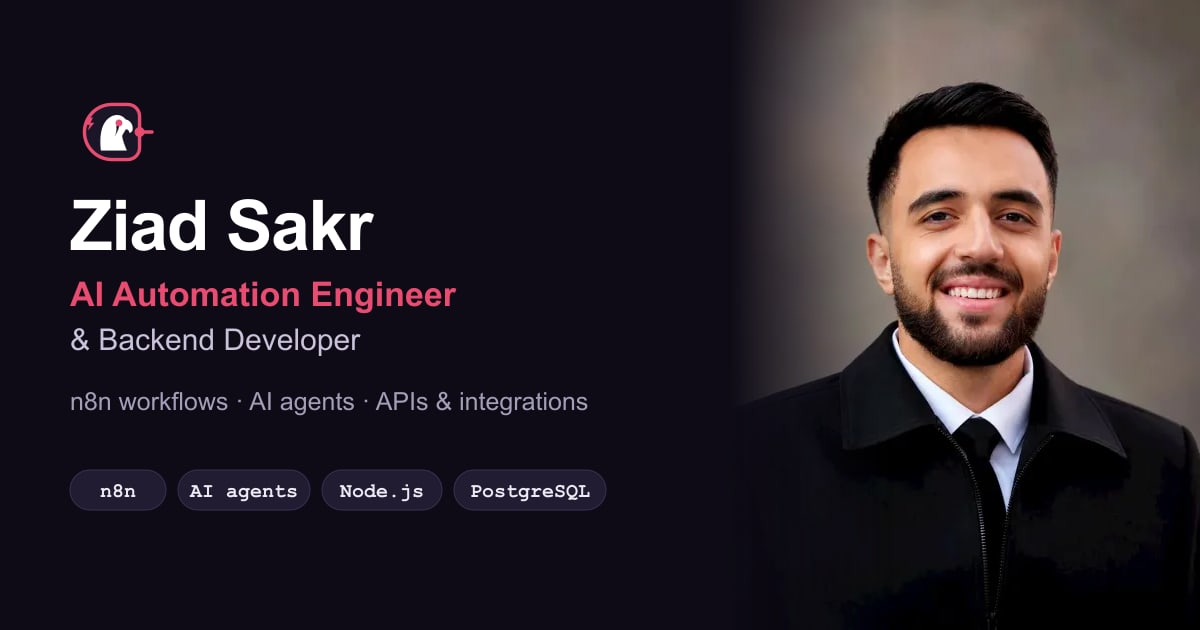
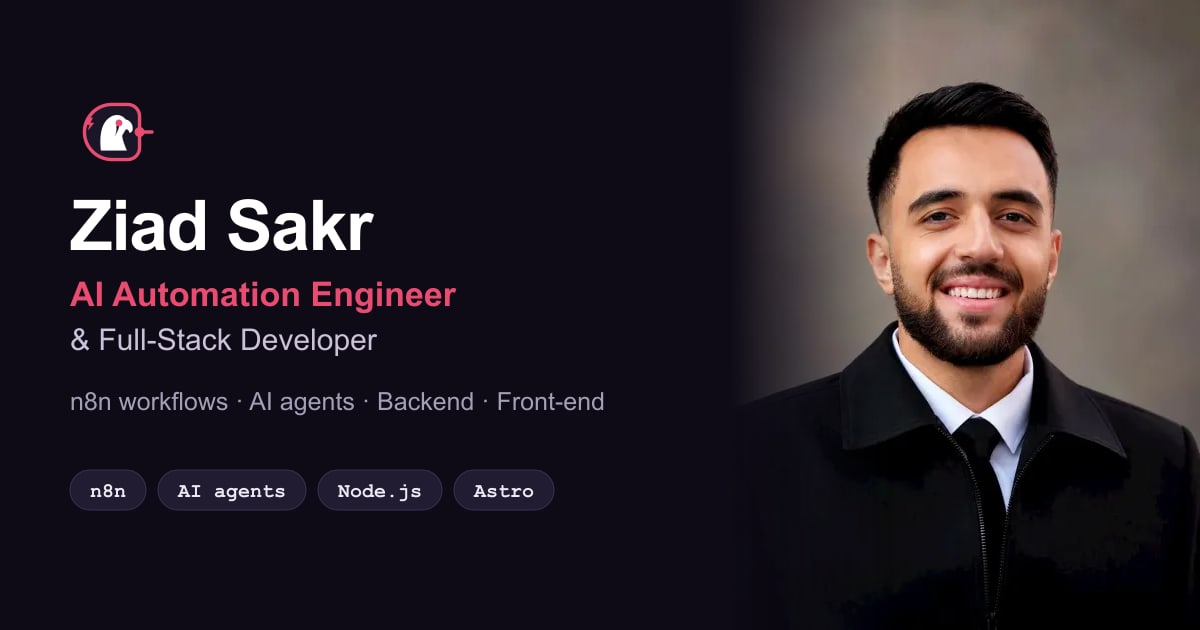
Mobile hero (cover photo + live flow), intro once per visit, Full-Stack
- Phones: cover-photo hero, side-by-side View work / WhatsApp, live mini-workflow synced with desktop cards, compact stats; big portrait hidden
- Intro animation plays once per visit (sessionStorage); skipped on /#section links; /?intro forces it
- Skip button slides up with a soft glow
- Role: AI Automation Engineer & Full-Stack Developer; new Front-end & Web Apps service; OG image regenerated (scripts/make-og.mjs)
- EDIT-GUIDE.md (Arabic how-to) and CLAUDE.md

diff --git a/src/site.ts b/src/site.ts
@@ -1,10 +1,10 @@
 // Edit your personal info here — used across the whole site.
 export const site = {
   name: 'Ziad Sakr',
-  role: 'AI Automation Engineer · Backend Developer',
+  role: 'AI Automation Engineer · Full-Stack Developer',
   tagline: 'I automate the boring parts of your business.',
   description:
-    'I design and ship AI agents, n8n automations and the backend behind them — with validation, deduplication, security and error monitoring built in.',
+    'I design and ship AI agents, n8n automations, the backend behind them and fast, mobile-first front-ends (Astro, JavaScript) — with validation, security and error monitoring built in.',
   email: 'ziadsakr261@gmail.com',
   // Contact form → your inbox via Web3Forms (free, no backend; formsubmit.co was unreachable).
   // Get a free Access Key at https://web3forms.com (enter ziadsakr261@gmail.com) and paste it below.

diff --git a/EDIT-GUIDE.md b/EDIT-GUIDE.md
@@ -1,0 +1,141 @@
+# 📘 دليل تعديل الموقع — Ziad Sakr Portfolio
+
+> الموقع: **https://ziad-sakr-portfolio.pages.dev**
+> الكود: فولدر `ziad-sakr-portfolio` على الديسكتوب + GitHub (خاص): `sheetswork26-hue/ziad-sakr-portfolio`
+
+---
+
+## ⚡ الخلاصة في 3 خطوات (لأي تعديل)
+
+1. عدّل الملف (الجداول تحت بتقولك أنهي ملف).
+2. جرّب على جهازك (اختياري):
+   ```bash
+   npm run dev
+   ```
+   وافتح `http://localhost:4321` — أي تعديل بيظهر فوراً. اقفله بـ `Ctrl + C`.
+3. ارفع على النت:
+   ```bash
+   npm run build
+   npx wrangler pages deploy dist --project-name ziad-sakr-portfolio --branch main
+   ```
+   ⏱ حوالي دقيقة · 💰 مجاني
+
+> 💡 شغّل الأوامر من Terminal **جوه فولدر المشروع** (في VS Code: `Terminal → New Terminal`).
+
+**احفظ نسخة على GitHub بعد كل تعديل (موصى به):**
+```bash
+git add -A
+git commit -m "وصف التعديل"
+git push
+```
+
+---
+
+## 🗂 خريطة الملفات
+
+| الملف / الفولدر | فيه إيه |
+|---|---|
+| `src/site.ts` | **أهم ملف**: اسمك، التايتل، الوصف، الإيميل، الواتساب، اللينكات، الأرقام، مفتاح الفورم |
+| `src/content/projects/*.md` | المشاريع (ملف لكل مشروع) |
+| `public/workflows/*.json` | الـ workflows اللي بتظهر تفاعلية في صفحة المشروع |
+| `public/me.webp` | صورتك |
+| `public/favicon.svg` | أيقونة الصقر (التاب) |
+| `public/og.jpg` | صورة المشاركة على LinkedIn/WhatsApp |
+| `src/styles/global.css` | الألوان والخطوط (أول 25 سطر) |
+| `src/pages/index.astro` | الصفحة الرئيسية: الخدمات، خطوات الشغل، التواصل |
+| `src/components/IntroHero3.astro` | الجزء اللي فيه صورتك والتايتل (شكل الموبايل في آخر الملف تحت `phones (≤720px)`) |
+| `src/components/AutomationStory.astro` | أنيميشن قبل/بعد الأتمتة |
+| `src/layouts/Base.astro` | الهيدر، الفوتر، زرار الواتساب |
+| `scripts/make-og.mjs` | بيعمل صورة المشاركة من جديد |
+| `design-archive/` | صورتك الأصلية + مقارنة قبل/بعد (مش بتترفع) |
+
+---
+
+## ✏ تعديلات شائعة
+
+### 1) تغيير بياناتك (اسم، تايتل، لينكات، واتساب، أرقام)
+📄 `src/site.ts`
+```ts
+role: 'AI Automation Engineer · Full-Stack Developer',
+whatsapp: '+20 106 746 1252',
+links: { linkedin: '...', github: '...', whatsapp: 'https://wa.me/201067461252' },
+stats: [ { value: '4', label: 'end-to-end systems shipped' }, ... ],
+```
+عدّل الكلام بين `' '` بس، وسيب العلامات زي ما هي.
+
+### 2) تعديل مشروع موجود
+📄 `src/content/projects/اسم-المشروع.md`
+- الجزء اللي فوق بين `---` و `---` = البيانات (العنوان، الأرقام، الأدوات، الـ flow).
+- الجزء اللي تحت = كلام الـ case study (عادي، Markdown: `## عنوان` و `- نقطة`).
+
+### 3) إضافة مشروع جديد
+1. انسخ أي ملف في `src/content/projects/` وسمّيه باسم المشروع بالإنجليزي وشَرطات، مثلاً `invoice-bot.md` (ده هيبقى اللينك: `/projects/invoice-bot/`).
+2. عدّل البيانات والكلام.
+3. (اختياري) الـ workflow التفاعلي:
+   - من n8n: `... → Download` للـ workflow.
+   - ⚠ **امسح أي credentials / API keys / أرقام تليفونات / IDs** من الملف.
+   - حطه في `public/workflows/invoice-bot.json`، واكتب في ملف المشروع: `workflow: /workflows/invoice-bot.json`
+4. ترتيب الظهور: `order: 5` (الأصغر يظهر الأول).
+5. ارفع (الخطوات فوق).
+
+### 4) تغيير صورتك
+1. حط الصورة الجديدة مكان `public/me.webp` **بنفس الاسم** (لو JPG/PNG حوّلها لـ webp أو اطلب من Claude).
+2. حدّث صورة المشاركة:
+   ```bash
+   node scripts/make-og.mjs
+   ```
+3. ارفع.
+
+### 5) تغيير الألوان
+📄 `src/styles/global.css` — أول السطور:
+```css
+--accent: #ea4b71;        /* اللون الأساسي (وردي n8n) */
+--accent-strong: #d6365f; /* لون الزراير */
+--bg: #0e0b16;            /* الخلفية */
+```
+
+### 6) تعديل الخدمات أو خطوات الشغل
+📄 `src/pages/index.astro` — فوق في الملف: `const services = [...]` و `const process = [...]`.
+
+### 7) الفورم (التواصل)
+- الرسايل بتوصل على إيميل حساب **Web3Forms**.
+- المفتاح في `src/site.ts` → `web3formsKey`.
+- لو غيرت الدومين: غيّره كمان في إعدادات الفورم على web3forms.com.
+
+### 8) الأنيميشن الافتتاحي
+- بيظهر **مرة واحدة في كل زيارة** (مش بيتكرر لما ترجع للصفحة الرئيسية أو تعمل refresh أو تفتح لينك زي `/#work`).
+- عشان تشوفه تاني: افتح `https://ziad-sakr-portfolio.pages.dev/?intro`
+- الكلام والتوقيت في `src/components/AutomationStory.astro`.
+
+---
+
+## 🤖 لو هتستخدم Claude للتعديل (توفير توكنز)
+
+- افتح **session جديدة** على فولدر المشروع (مش المحادثة القديمة الطويلة).
+- اطلب بشكل محدد واجمع التعديلات في رسالة واحدة. أمثلة:
+  - «غيّر رقم الـ nodes في `site.ts` لـ 200 وارفع الموقع»
+  - «ضيف مشروع جديد اسمه X من الفولدر ده ... بنفس شكل باقي المشاريع وارفع»
+  - «غيّر لون الـ accent لـ #7c4dff ووريني معاينة قبل الرفع»
+- ملف `CLAUDE.md` في المشروع بيعرّف Claude بالمشروع تلقائياً.
+
+---
+
+## 🛠 مشاكل ممكن تقابلك وحلها
+
+| المشكلة | الحل |
+|---|---|
+| `wrangler` يقول *Not logged in* | `npx wrangler login` في Terminal عادي ووافق في المتصفح |
+| `npm` يقول `EALLOWSCRIPTS` | شغّل أوامر wrangler من Terminal تفاعلي (VS Code / PowerShell) مش من سكريبت |
+| `npm run dev` يقول ناقص packages | `npm install` مرة واحدة |
+| الموقع مش بيتحدث بعد الرفع | `Ctrl + Shift + R` في المتصفح (تحديث بدون كاش) |
+| رفعت حاجة غلط وعاوز ترجع | Cloudflare Dashboard → Workers & Pages → ziad-sakr-portfolio → Deployments → على النسخة القديمة: **Rollback** |
+
+---
+
+## 🧱 الأدوات المستخدمة
+
+- **Astro** — بناء الموقع (Static, سريع جداً)
+- **Cloudflare Pages** — الاستضافة (مجاني)
+- **Web3Forms** — فورم التواصل
+- **sharp** — معالجة الصور وصورة المشاركة
+- **n8n demo component** — عرض الـ workflows تفاعلياً

diff --git a/CLAUDE.md b/CLAUDE.md
@@ -1,0 +1,22 @@
+# Project notes for Claude
+
+Ziad Sakr's portfolio — Astro static site, live at https://ziad-sakr-portfolio.pages.dev (Cloudflare Pages project `ziad-sakr-portfolio`). Private repo: github.com/sheetswork26-hue/ziad-sakr-portfolio. Full human guide (Arabic): `EDIT-GUIDE.md`.
+
+## Working with Ziad
+- Reply in Egyptian Arabic. He wants everything **mobile-first** — test at 375px before saying done.
+- For any **visual/design change**, show a preview/options first and apply only after he approves.
+- Don't add Upwork / n8n Creators links (he doesn't have them yet). Never invent metrics — numbers come from his real projects.
+
+## Where things live
+- Personal data, links, stats, Web3Forms key: `src/site.ts`
+- Projects: `src/content/projects/*.md` (schema in `src/content.config.ts`); sanitized workflows in `public/workflows/` (strip credentials/IDs/phones)
+- Colors: tokens at top of `src/styles/global.css` (n8n palette; `--accent-strong` for white-text buttons, WCAG AA)
+- Home: `src/pages/index.astro` (services, process, contact form) · Hero: `src/components/IntroHero3.astro` · Intro animation: `src/components/AutomationStory.astro` (once per tab via sessionStorage; `/?intro` forces it)
+- Logo: `src/components/Logo.astro` + `public/favicon.svg` (falcon in an n8n trigger node)
+- Share image: `node scripts/make-og.mjs` → `public/og.jpg`
+- `src/pages/_intro-*.astro` and `IntroHero1/2`, `BeforeAfterScene`, `HeroGraph` = archived designs, not published.
+
+## Commands
+- Dev: `npm run dev` · Build: `npm run build` (expect 5 pages)
+- Deploy: `npx wrangler pages deploy dist --project-name ziad-sakr-portfolio --branch main` — run in an **interactive terminal tab** (non-interactive shells fail wrangler auth).
+- Commit with git after changes and `git push`.
